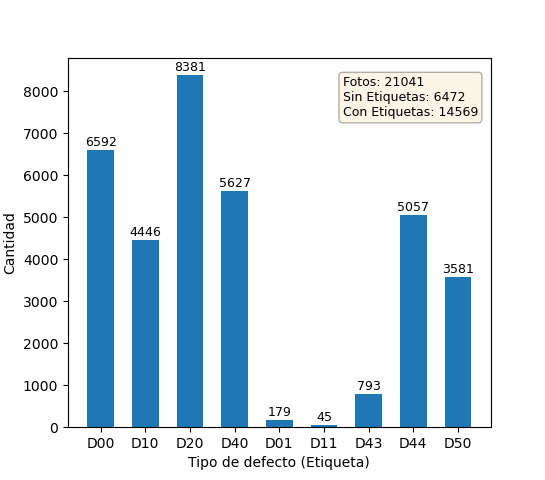
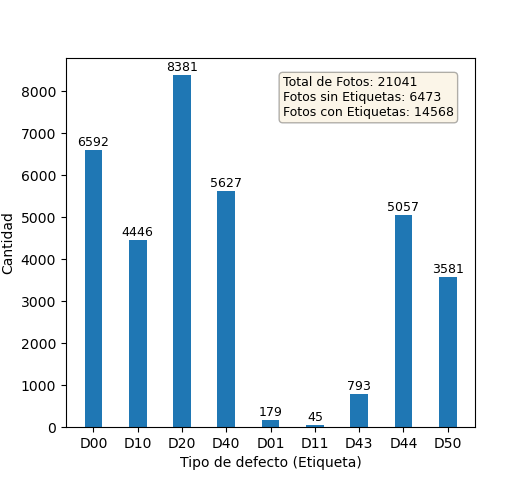
updated sh files and others

diff --git a/find_classes.py b/find_classes.py
@@ -17,7 +17,7 @@ left = args.left
 label_check = {"D00", "D01", "D10", "D11", "D20", "D40", "D43", "D44", "D50"}
 
 if left is None or left == 0:
-    left = 0.65
+    left = 0.53
 else:
     left = 0.05
 
@@ -60,7 +60,7 @@ def plot(labels_dict, total_files, empty_files):
 
     autolabel(rects1)
 
-    textstr = "Fotos: {}\nSin Etiquetas: {}\nCon Etiquetas: {}".format(total_files, empty_files, not_empty)
+    textstr = "Total de Fotos: {}\nFotos sin Etiquetas: {}\nFotos con Etiquetas: {}".format(total_files, empty_files, not_empty)
 
     # these are matplotlib.patch.Patch properties
     props = dict(boxstyle='round', facecolor='wheat', alpha=0.3)
